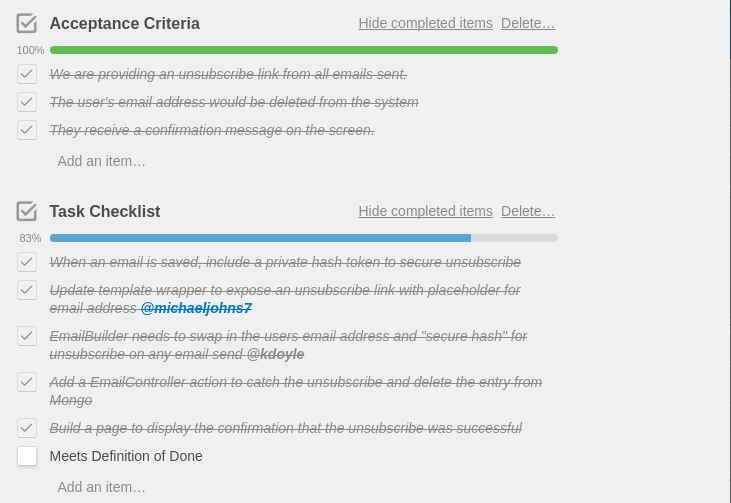
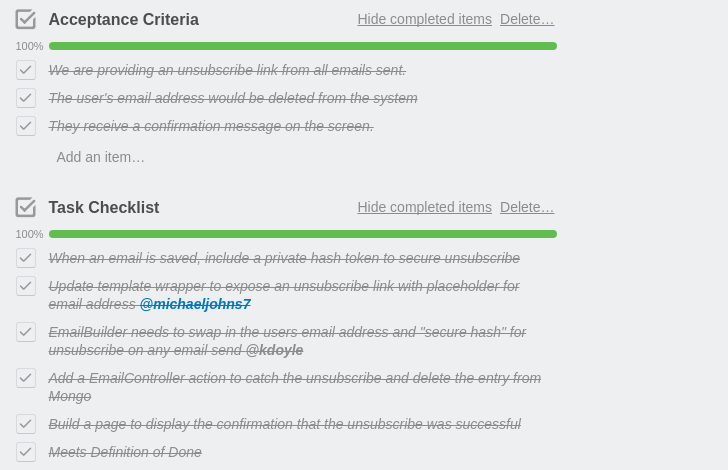
added cucumber test to docs

diff --git a/readme/sprint1/sprint1.md b/readme/sprint1/sprint1.md
@@ -3,7 +3,7 @@
 ### Forecast
 
 Based on the fact that we all still needed to configure the project and get it running on our localhost before we were able to begin work on the stories that actually delivered product value, we forecasted we could get **21 story points** done during this sprint.
-The forecast correlated to the first four stories from our [Initial Ordered Backlog](https://github.com/michaeljohns2/CommunityTable/blob/master/readme/sprint0/sprint0.md#initial-product-backlog-order):
+The forecast correlated to the first four stories from our [Initial Ordered Product Backlog](https://github.com/michaeljohns2/CommunityTable/blob/master/readme/sprint0/sprint0.md#initial-product-backlog-order):
 
 | __Number__ | __Title__ | __Story Points__ | __Summary__
 | --- | --- | --- | --- |
@@ -16,7 +16,8 @@ The forecast correlated to the first four stories from our [Initial Ordered Back
 
 We were able to close on all user stories forecasted within the sprint (reference our [Definition of Done](https://github.com/michaeljohns2/CommunityTable/blob/master/readme/sprint0/sprint0.md#definition-of-done)). A summary of [release1](https://github.com/michaeljohns2/CommunityTable/blob/master/README.md#release-notes) is is given in the main readme.
 Our stakeholders and Scrum Team agree that while release1 is feature complete under sprint1 scope, we not attempt to deploy into public production until further protections of Mongo and email services are completed -- these are captured as tasks within existing PBIs and are prioritized for sprint2.
-Here are Acceptance Criteria and Sprint Tasks for this sprint: 
+
+#### Acceptance Criteria and Sprint Tasks 
 
 1. User Story : _Site landing page_
 
@@ -34,6 +35,11 @@ Here are Acceptance Criteria and Sprint Tasks for this sprint:
 
  ![Story 4 Acceptance Criteria & Tasks](https://github.com/michaeljohns2/CommunityTable/blob/master/readme/sprint1/sprint1_story4.png)
 
+#### Behavior-Driven Development & Unit Tests
+
+We used the [cucumber](https://cucumber.io/) framework to run our Behavior-Driven Development (BDD) tests. Specifically we tested email registration using BDD. See [email_register.feature](https://github.com/michaeljohns2/CommunityTable/blob/master/WebApp/src/test/java/features/email_register.feature), [EmailRegisterStepdefs](https://github.com/michaeljohns2/CommunityTable/blob/master/WebApp/src/test/java/stepdefs/EmailRegisterStepdefs.java), and the screenshot below (showing all tests passed). 
+   
+   ![cucumber](https://github.com/michaeljohns2/CommunityTable/blob/master/readme/sprint1/cucumber.png)
 
 ### Burndown
 
